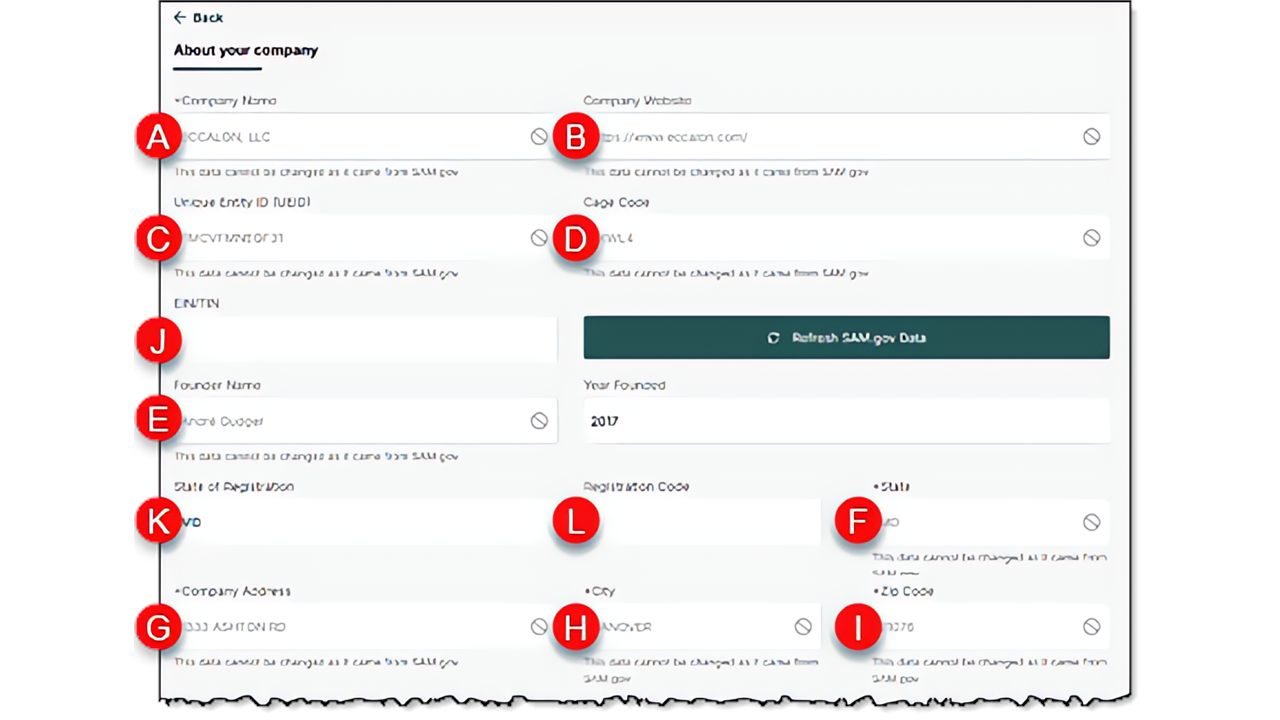
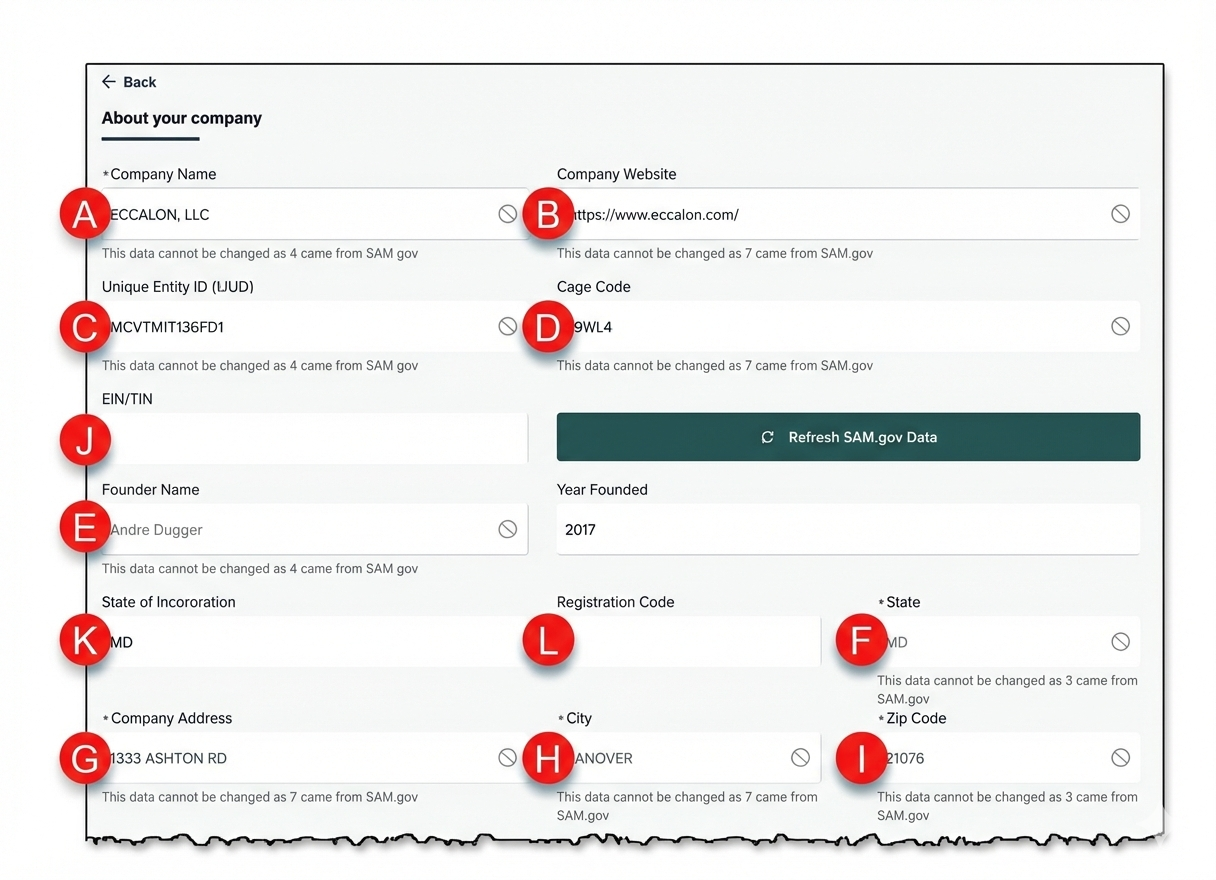
Replace with-snagit image with Gemini-enhanced version
Crystal clear text, all field labels and values fully readable.

Changed region(s): [[0.0312, 0.0, 0.9688, 1.0], [0.4062, 0.6722, 0.5625, 0.7639]]

diff --git a/index.html b/index.html
@@ -586,8 +586,8 @@ body.fullscreen-mode #fs-deck-nav { display: flex; }
       <div class="compare-header">
         <p class="compare-desc">Same screenshot — one with SnagIt annotations, one without</p>
         <div class="compare-toggle">
-          <button class="compare-btn bad" data-img="without-snagit.png?v=5">Without SnagIt</button>
-          <button class="compare-btn good" data-img="with-snagit.png?v=5">With SnagIt</button>
+          <button class="compare-btn bad" data-img="without-snagit.png?v=6">Without SnagIt</button>
+          <button class="compare-btn good" data-img="with-snagit.png?v=6">With SnagIt</button>
         </div>
       </div>
       <div class="compare-viewer">
